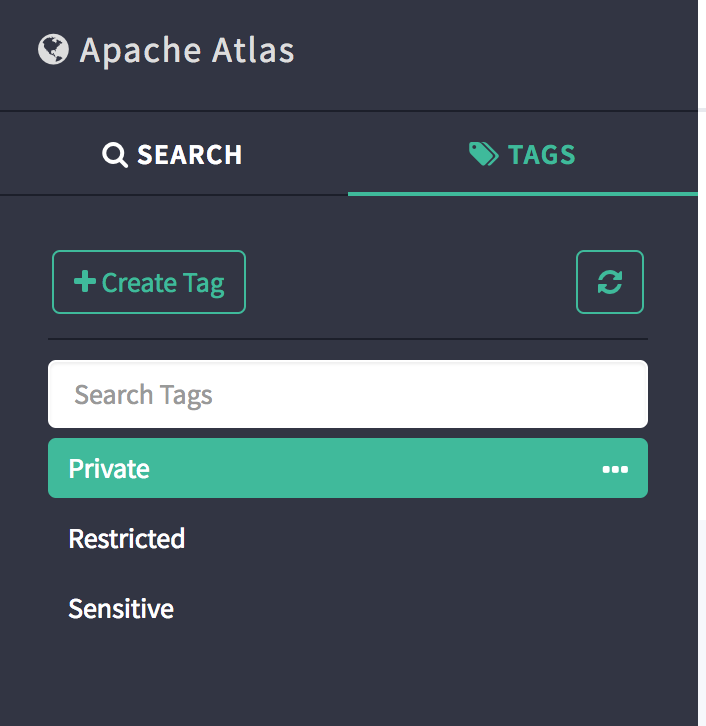
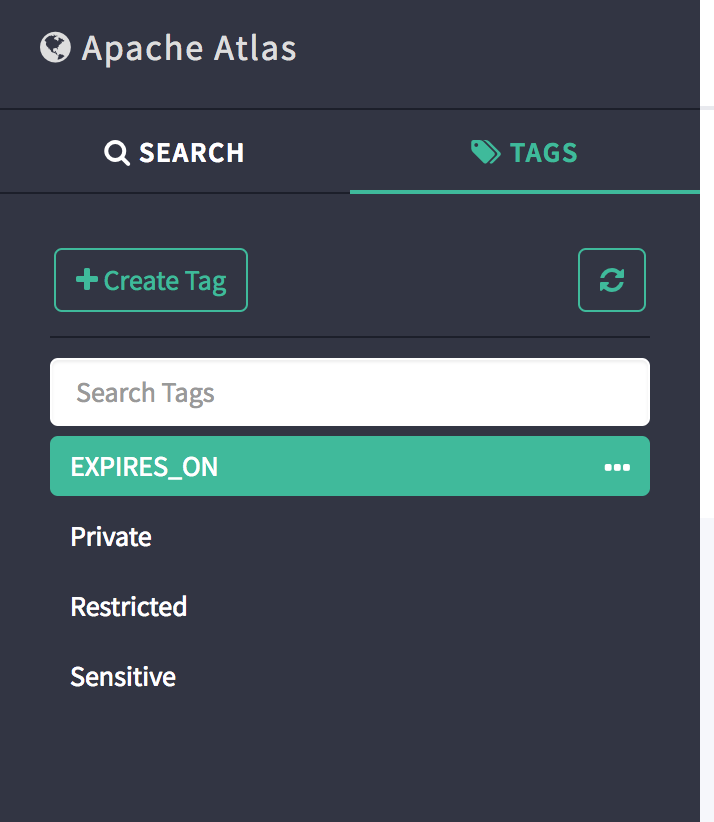
Tag-Based Policies
Added steps for Tag-Based Policies

diff --git a/HDP-2.6-AD.md b/HDP-2.6-AD.md
@@ -39,8 +39,10 @@
   - Tag-Based Policies (Atlas+Ranger Integration)
     - Tag-Based Access Control
     - Attribute-Based Access Control
-    - Time-Based Policies
     - Tag-Based Masking
+	- Location-Based Access Control
+    - Time-Based Policies
+  - Policy Evaluation and Precedence
 - [Lab 8](#lab-8)
   - Configure Knox to authenticate via AD
   - Utilize Knox to Connect to Hadoop  Cluster Services
@@ -2160,6 +2162,11 @@ To create Tag-Based Policies, we will first need to create tags in Atlas and ass
 	- Type: `int`
 ![Image](/screenshots/Atlas-sensitive-tag-creation.png)
 
+- Create a fourth tag named "EXPIRES_ON", and during creation, click on "Add New Attributes" and input:
+	- Attribute Name: `expiry_date`
+	- Type: `int`
+![Image](/screenshots/Atlas-expires-on-tag-creation.png)
+
 - Under the "Tags" tab in the main screen you should see the list of newly created tags
 ![Image](/screenshots/Atlas-created-tags.png)
 
@@ -2178,6 +2185,10 @@ To create Tag-Based Policies, we will first need to create tags in Atlas and ass
 - You should see that the "Private" tag has been associated to the "sample_08" table
 ![Image](/screenshots/Atlas-associated-table-tags.png)
 
+- Now, in the same manner, associate the "EXPIRES_ON" tag to the "sample_08" table
+	When prompted, select a date in the past for "expiry_date"
+![Image](/screenshots/Atlas-tag-item-expires-on.png)
+
 - In the search results panel, click on the "sample_08" link
 ![Image](/screenshots/Atlas-search-table.png)
 
@@ -2187,7 +2198,7 @@ To create Tag-Based Policies, we will first need to create tags in Atlas and ass
 - Select the "+" button under the Tag column for "salary" and associate the `Restricted` tag to it
 
 - Select the "+" button under the Tag column for "total_emp" and associate the `Sensitive` tag to it
-	- When prompted input `5` for the "level"
+	- When prompted, input `5` for the "level"
 ![Image](/screenshots/Atlas-tag-item-sensitive.png)
 
 - On the "sample_08" table schema page you should see the table columns with the associated tags
@@ -2223,13 +2234,139 @@ To enable Ranger for Tag-Based Policies complete the following:
 We should now be able to create Tag-Based Policies for Hive
 
 #### Tag-Based Access Control
+Goal: Create a Tag-Based policy for sales to access all entities tagged as "Private"
 
-#### Tag-Attribute-Based Access Control
+- Select "Access Manager" and then "Tag Based Policies" from the upper left hand corner of the main Ranger UI page
+![Image](/screenshots/Ranger-navigate-to-tag-based-policies.png)
+
+- Select the "tags" service that you had previously created
+
+- On the "tags Policies" page, click on "Add New Policy"
+![Image](/screenshots/Ranger-Tags-policy-list-1.png)
+
+- Input the following to create the new policy
+	- Policy Name: `Private Data Access`
+	- TAG: `Private`
+	- Under "Allow Conditions"
+		- Select Group: `sales`
+		- Component Permissions: (select `Hive` and enable all actions)
+	- Add
+![Image](/screenshots/Ranger-Tags-create-tbac.png)
+![Image](/screenshots/Ranger-Tags-component-permissions.png)
+
+- Run these steps from node where Hive (or client) is installed 
+
+- From node where Hive (or client) is installed, login as sales1 and connect to beeline:
+```
+su - sales1
+klist
+## Default principal: sales1@LAB.HORTONWORKS.NET
+```
+```
+beeline -u "jdbc:hive2://localhost:10000/default;principal=hive/$(hostname -f)@LAB.HORTONWORKS.NET"
+```
+- Now try accessing table "sample_08" and notice how you have access to all the contents of the table
+```
+beeline> select * from sample_08;
+```
+
+#### Attribute-Based Access Control
+Goal: Disallow everybody's access to data tagged as "Sensitive" and has an attribute "level" 5 or above
+
+- Return to the Ranger "tags Policies" page and "Add New Policy" with the below parameters
+	- Policy Name: `Sensitive Data Access`
+	- TAG: `Sensitive`
+	- Under "Deny Conditions" 
+		- Select Group: `public`
+		- Policy Conditions/Enter boolean expression: `level>=5`
+			- Note: Boolean expressions are written in Javascript
+		- Component Permissions: (select `Hive` and enable all actions)
+	- Add
+![Image](/screenshots/Ranger-Tags-create-abac-1.png)
+![Image](/screenshots/Ranger-Tags-create-abac-2.png)
+
+- Wait 30 seconds before trying to access the "total_emp" column in table "sample_08" and notice how you are denied access
+```
+beeline> select total_emp from sample_08;
+```
+
+- Now try to access the other columns and notice how you are allowed access to them access
+```
+beeline> select code, description, salary from sample_08;
+```
+
+#### Tag-Based Masking 
+Goal: Mask data tagged as "Restricted"
+
+- Return to the Ranger "tags Policies" page, click on the "Masking" tab in the upper right hand 
+![Image](/screenshots/Ranger-Tags-tbm-tab.png)
+
+- Click on "Add New Policy" and input the below parameters
+	- Policy Name: `Restricted Data Access`
+	- TAG: `Restricted`
+	- Under "Mask Conditions" 
+		- Select Group: `public`
+		- Component Permissions: (select `Hive` and enable all actions)
+		- Select Masking Option: `Redact`	
+	- Add
+
+- Wait 30 seconds and try run the below query.  Notice how salary data has been masked
+```
+beeline> select code, description, salary from sample_08;
+```
+
+#### Location-Based Access Control
+Goal: Restrict access to data based on a user's physical location at the time.
+
+- Return to the Ranger "tags Policies" page ("Access" tab) and "Add New Policy" with the below parameters
+	- Policy Name: `Geo-Location Access`
+	- TAG: `Restricted`
+	- Under "Deny Conditions" 
+		- Select Group: `public`
+		- Policy Conditions/Enter boolean expression: `country_code=='USA'`
+			- If you are outside of USA use `country_code!='USA'` instead
+		- Component Permissions: (select `Hive` and enable all actions)
+	- Add
+![Image](/screenshots/Ranger-Tags-create-lba-1.png)
+![Image](/screenshots/Ranger-Tags-create-lba-2.png)
+
+- Wait 30 seconds and try run the below query.  Notice how you are now denied access to the "salary" column because of your location
+```
+beeline> select code, description, salary from sample_08;
+```
 
 #### Time-Based Policies
+Goal: To place an expiry date on sales' access policy to data tagged as "Private" after which access will be denied
 
-#### Tag-Based Masking
+- Return to the Ranger "tags Policies" page ("Access" tab)and "Add New Policy" with the below parameters.  You may already have default policy named "EXPIRES_ON", if so, please delete it before clicking "Add New Policy" 
+	- Policy Name: `EXPIRES_ON`
+	- TAG: `EXPIRES_ON`
+	- Under "Deny Conditions" 
+		- Select Group: `public`
+		- Policy Conditions/Accessed after expiry_date: `yes`
+		- Component Permissions: (select `Hive` and enable all actions)
+	- Add
+![Image](/screenshots/Ranger-Tags-create-eo-1.png)
+![Image](/screenshots/Ranger-Tags-create-eo-2.png)
 
+- Wait 30 seconds and try run the below query.  Notice how you are now denied access to the entire "sample_08" table because it is accessed after the expiry date tagged in Atlas
+```
+beeline> select code, description from sample_08;
+```
+
+- Exit beeline
+```
+!q
+```
+- Logoff as sales1
+```
+logout
+```
+
+## Policy Evaluation and Precedence
+
+Notice how in the policies above, ones that deny access always take precedence over ones that allow access.  For example, even though sales had access to "Private" data in the Tag-Based Access Control section, they were gradually disallowed access over the following sections as we set up "Deny" policies.  This applies to both, Tag-Based as well as Resource-Based policies.  To understand better the sequence of policy evaluation, take a look at the following flow-chart.
+![Image](/screenshots/Ranger-Policy-Evaluation-Flow-with-Tags.png)
 
 ------------------
 

diff --git a/HDP-2.6-MITKDC.md b/HDP-2.6-MITKDC.md
@@ -39,8 +39,10 @@
   - Tag-Based Policies (Atlas+Ranger Integration)
     - Tag-Based Access Control
     - Attribute-Based Access Control
-    - Time-Based Policies
     - Tag-Based Masking
+	- Location-Based Access Control
+    - Time-Based Policies
+  - Policy Evaluation and Precedence
 - [Lab 8](#lab-8)
   - Configure Knox to authenticate via AD
   - Utilize Knox to Connect to Hadoop  Cluster Services
@@ -2107,6 +2109,11 @@ To create Tag-Based Policies, we will first need to create tags in Atlas and ass
 	- Type: `int`
 ![Image](/screenshots/Atlas-sensitive-tag-creation.png)
 
+- Create a fourth tag named "EXPIRES_ON", and during creation, click on "Add New Attributes" and input:
+	- Attribute Name: `expiry_date`
+	- Type: `int`
+![Image](/screenshots/Atlas-expires-on-tag-creation.png)
+
 - Under the "Tags" tab in the main screen you should see the list of newly created tags
 ![Image](/screenshots/Atlas-created-tags.png)
 
@@ -2125,6 +2132,10 @@ To create Tag-Based Policies, we will first need to create tags in Atlas and ass
 - You should see that the "Private" tag has been associated to the "sample_08" table
 ![Image](/screenshots/Atlas-associated-table-tags.png)
 
+- Now, in the same manner, associate the "EXPIRES_ON" tag to the "sample_08" table
+	When prompted, select a date in the past for "expiry_date"
+![Image](/screenshots/Atlas-tag-item-expires-on.png)
+
 - In the search results panel, click on the "sample_08" link
 ![Image](/screenshots/Atlas-search-table.png)
 
@@ -2134,7 +2145,7 @@ To create Tag-Based Policies, we will first need to create tags in Atlas and ass
 - Select the "+" button under the Tag column for "salary" and associate the `Restricted` tag to it
 
 - Select the "+" button under the Tag column for "total_emp" and associate the `Sensitive` tag to it
-	- When prompted input `5` for the "level"
+	- When prompted, input `5` for the "level"
 ![Image](/screenshots/Atlas-tag-item-sensitive.png)
 
 - On the "sample_08" table schema page you should see the table columns with the associated tags
@@ -2170,15 +2181,142 @@ To enable Ranger for Tag-Based Policies complete the following:
 We should now be able to create Tag-Based Policies for Hive
 
 #### Tag-Based Access Control
+Goal: Create a Tag-Based policy for sales to access all entities tagged as "Private"
+
+- Select "Access Manager" and then "Tag Based Policies" from the upper left hand corner of the main Ranger UI page
+![Image](/screenshots/Ranger-navigate-to-tag-based-policies.png)
+
+- Select the "tags" service that you had previously created
+
+- On the "tags Policies" page, click on "Add New Policy"
+![Image](/screenshots/Ranger-Tags-policy-list-1.png)
+
+- Input the following to create the new policy
+	- Policy Name: `Private Data Access`
+	- TAG: `Private`
+	- Under "Allow Conditions"
+		- Select Group: `sales`
+		- Component Permissions: (select `Hive` and enable all actions)
+	- Add
+![Image](/screenshots/Ranger-Tags-create-tbac.png)
+![Image](/screenshots/Ranger-Tags-component-permissions.png)
+
+- Run these steps from node where Hive (or client) is installed 
+
+- From node where Hive (or client) is installed, login as sales1 and connect to beeline:
+```
+su - sales1
+klist
+## Default principal: sales1@LAB.HORTONWORKS.NET
+```
+```
+beeline -u "jdbc:hive2://localhost:10000/default;principal=hive/$(hostname -f)@LAB.HORTONWORKS.NET"
+```
+- Now try accessing table "sample_08" and notice how you have access to all the contents of the table
+```
+beeline> select * from sample_08;
+```
 
 #### Attribute-Based Access Control
+Goal: Disallow everybody's access to data tagged as "Sensitive" and has an attribute "level" 5 or above
+
+- Return to the Ranger "tags Policies" page and "Add New Policy" with the below parameters
+	- Policy Name: `Sensitive Data Access`
+	- TAG: `Sensitive`
+	- Under "Deny Conditions" 
+		- Select Group: `public`
+		- Policy Conditions/Enter boolean expression: `level>=5`
+			- Note: Boolean expressions are written in Javascript
+		- Component Permissions: (select `Hive` and enable all actions)
+	- Add
+![Image](/screenshots/Ranger-Tags-create-abac-1.png)
+![Image](/screenshots/Ranger-Tags-create-abac-2.png)
+
+- Wait 30 seconds before trying to access the "total_emp" column in table "sample_08" and notice how you are denied access
+```
+beeline> select total_emp from sample_08;
+```
+
+- Now try to access the other columns and notice how you are allowed access to them access
+```
+beeline> select code, description, salary from sample_08;
+```
+
+#### Tag-Based Masking 
+Goal: Mask data tagged as "Restricted"
+
+- Return to the Ranger "tags Policies" page, click on the "Masking" tab in the upper right hand 
+![Image](/screenshots/Ranger-Tags-tbm-tab.png)
+
+- Click on "Add New Policy" and input the below parameters
+	- Policy Name: `Restricted Data Access`
+	- TAG: `Restricted`
+	- Under "Mask Conditions" 
+		- Select Group: `public`
+		- Component Permissions: (select `Hive` and enable all actions)
+		- Select Masking Option: `Redact`	
+	- Add
+
+- Wait 30 seconds and try run the below query.  Notice how salary data has been masked
+```
+beeline> select code, description, salary from sample_08;
+```
+
+#### Location-Based Access Control
+Goal: Restrict access to data based on a user's physical location at the time.
+
+- Return to the Ranger "tags Policies" page ("Access" tab) and "Add New Policy" with the below parameters
+	- Policy Name: `Geo-Location Access`
+	- TAG: `Restricted`
+	- Under "Deny Conditions" 
+		- Select Group: `public`
+		- Policy Conditions/Enter boolean expression: `country_code=='USA'`
+			- If you are outside of USA use `country_code!='USA'` instead
+		- Component Permissions: (select `Hive` and enable all actions)
+	- Add
+![Image](/screenshots/Ranger-Tags-create-lba-1.png)
+![Image](/screenshots/Ranger-Tags-create-lba-2.png)
+
+- Wait 30 seconds and try run the below query.  Notice how you are now denied access to the "salary" column because of your location
+```
+beeline> select code, description, salary from sample_08;
+```
 
 #### Time-Based Policies
+Goal: To place an expiry date on sales' access policy to data tagged as "Private" after which access will be denied
 
-#### Tag-Based Masking
+- Return to the Ranger "tags Policies" page ("Access" tab)and "Add New Policy" with the below parameters.  You may already have default policy named "EXPIRES_ON", if so, please delete it before clicking "Add New Policy" 
+	- Policy Name: `EXPIRES_ON`
+	- TAG: `EXPIRES_ON`
+	- Under "Deny Conditions" 
+		- Select Group: `public`
+		- Policy Conditions/Accessed after expiry_date: `yes`
+		- Component Permissions: (select `Hive` and enable all actions)
+	- Add
+![Image](/screenshots/Ranger-Tags-create-eo-1.png)
+![Image](/screenshots/Ranger-Tags-create-eo-2.png)
 
+- Wait 30 seconds and try run the below query.  Notice how you are now denied access to the entire "sample_08" table because it is accessed after the expiry date tagged in Atlas
+```
+beeline> select code, description from sample_08;
+```
+
+- Exit beeline
+```
+!q
+```
+- Logoff as sales1
+```
+logout
+```
+
+## Policy Evaluation and Precedence
+
+Notice how in the policies above, ones that deny access always take precedence over ones that allow access.  For example, even though sales had access to "Private" data in the Tag-Based Access Control section, they were gradually disallowed access over the following sections as we set up "Deny" policies.  This applies to both, Tag-Based as well as Resource-Based policies.  To understand better the sequence of policy evaluation, take a look at the following flow-chart.
+![Image](/screenshots/Ranger-Policy-Evaluation-Flow-with-Tags.png)
 
 ------------------
+
 
 # Lab 8
 
